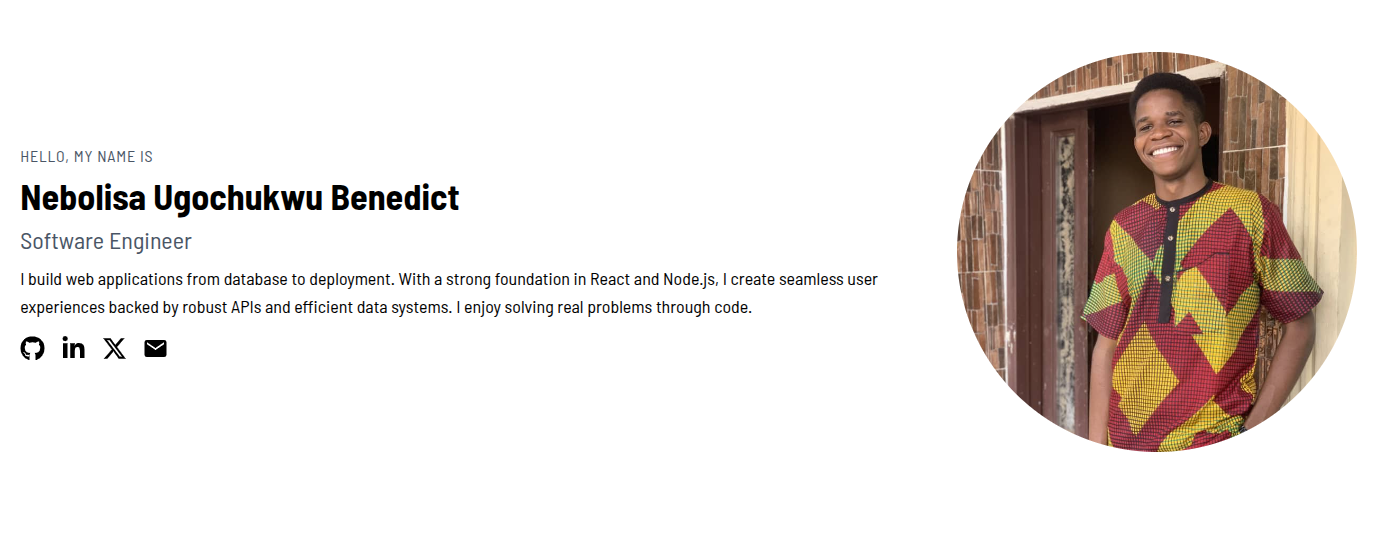
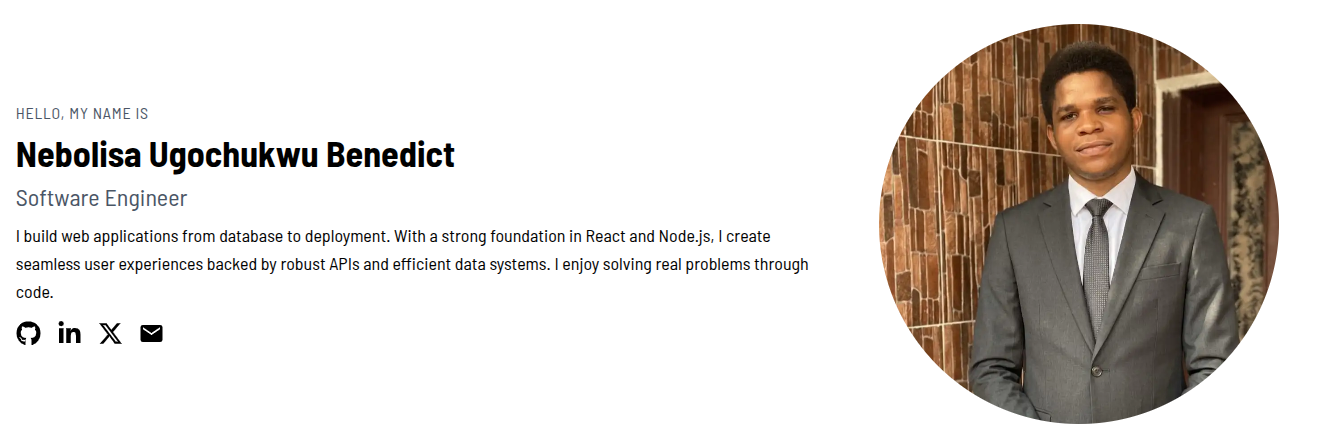
feat: change hero image

Changed region(s): [[0.0, 0.0297, 0.9828, 0.9795], [0.0, 0.2374, 0.3378, 0.4749], [0.0, 0.742, 0.1228, 0.8014]]

diff --git a/src/components/Home.jsx b/src/components/Home.jsx
@@ -23,11 +23,11 @@ function Home() {
           </p>
           <ContactLinks />
         </div>
-        <div className="rounded-full min-w-[300px] min-h-[300px] flex items-center justify-center md:ml-4">
+        <div className="rounded-full min-w-75 min-h-75 flex items-center justify-center md:ml-4">
           <img
-            src="/nebolisa.jpg"
+            src="/nebolisa.webp"
             alt="Nebolisa's Image"
-            className="w-[300px] h-[300px] md:w-[400px] md:h-[400px] rounded-full object-cover object-top"
+            className="w-75 h-75 md:w-100 md:h-100 rounded-full object-cover object-top"
           />
         </div>
       </div>

diff --git a/src/data/projects.js b/src/data/projects.js
@@ -12,7 +12,7 @@ export const projects = [
       "TailwindCSS",
       "React Js",
       "Express Js",
-      "MongoDb",
+      "PostgreSQL",
     ],
   },
   {
